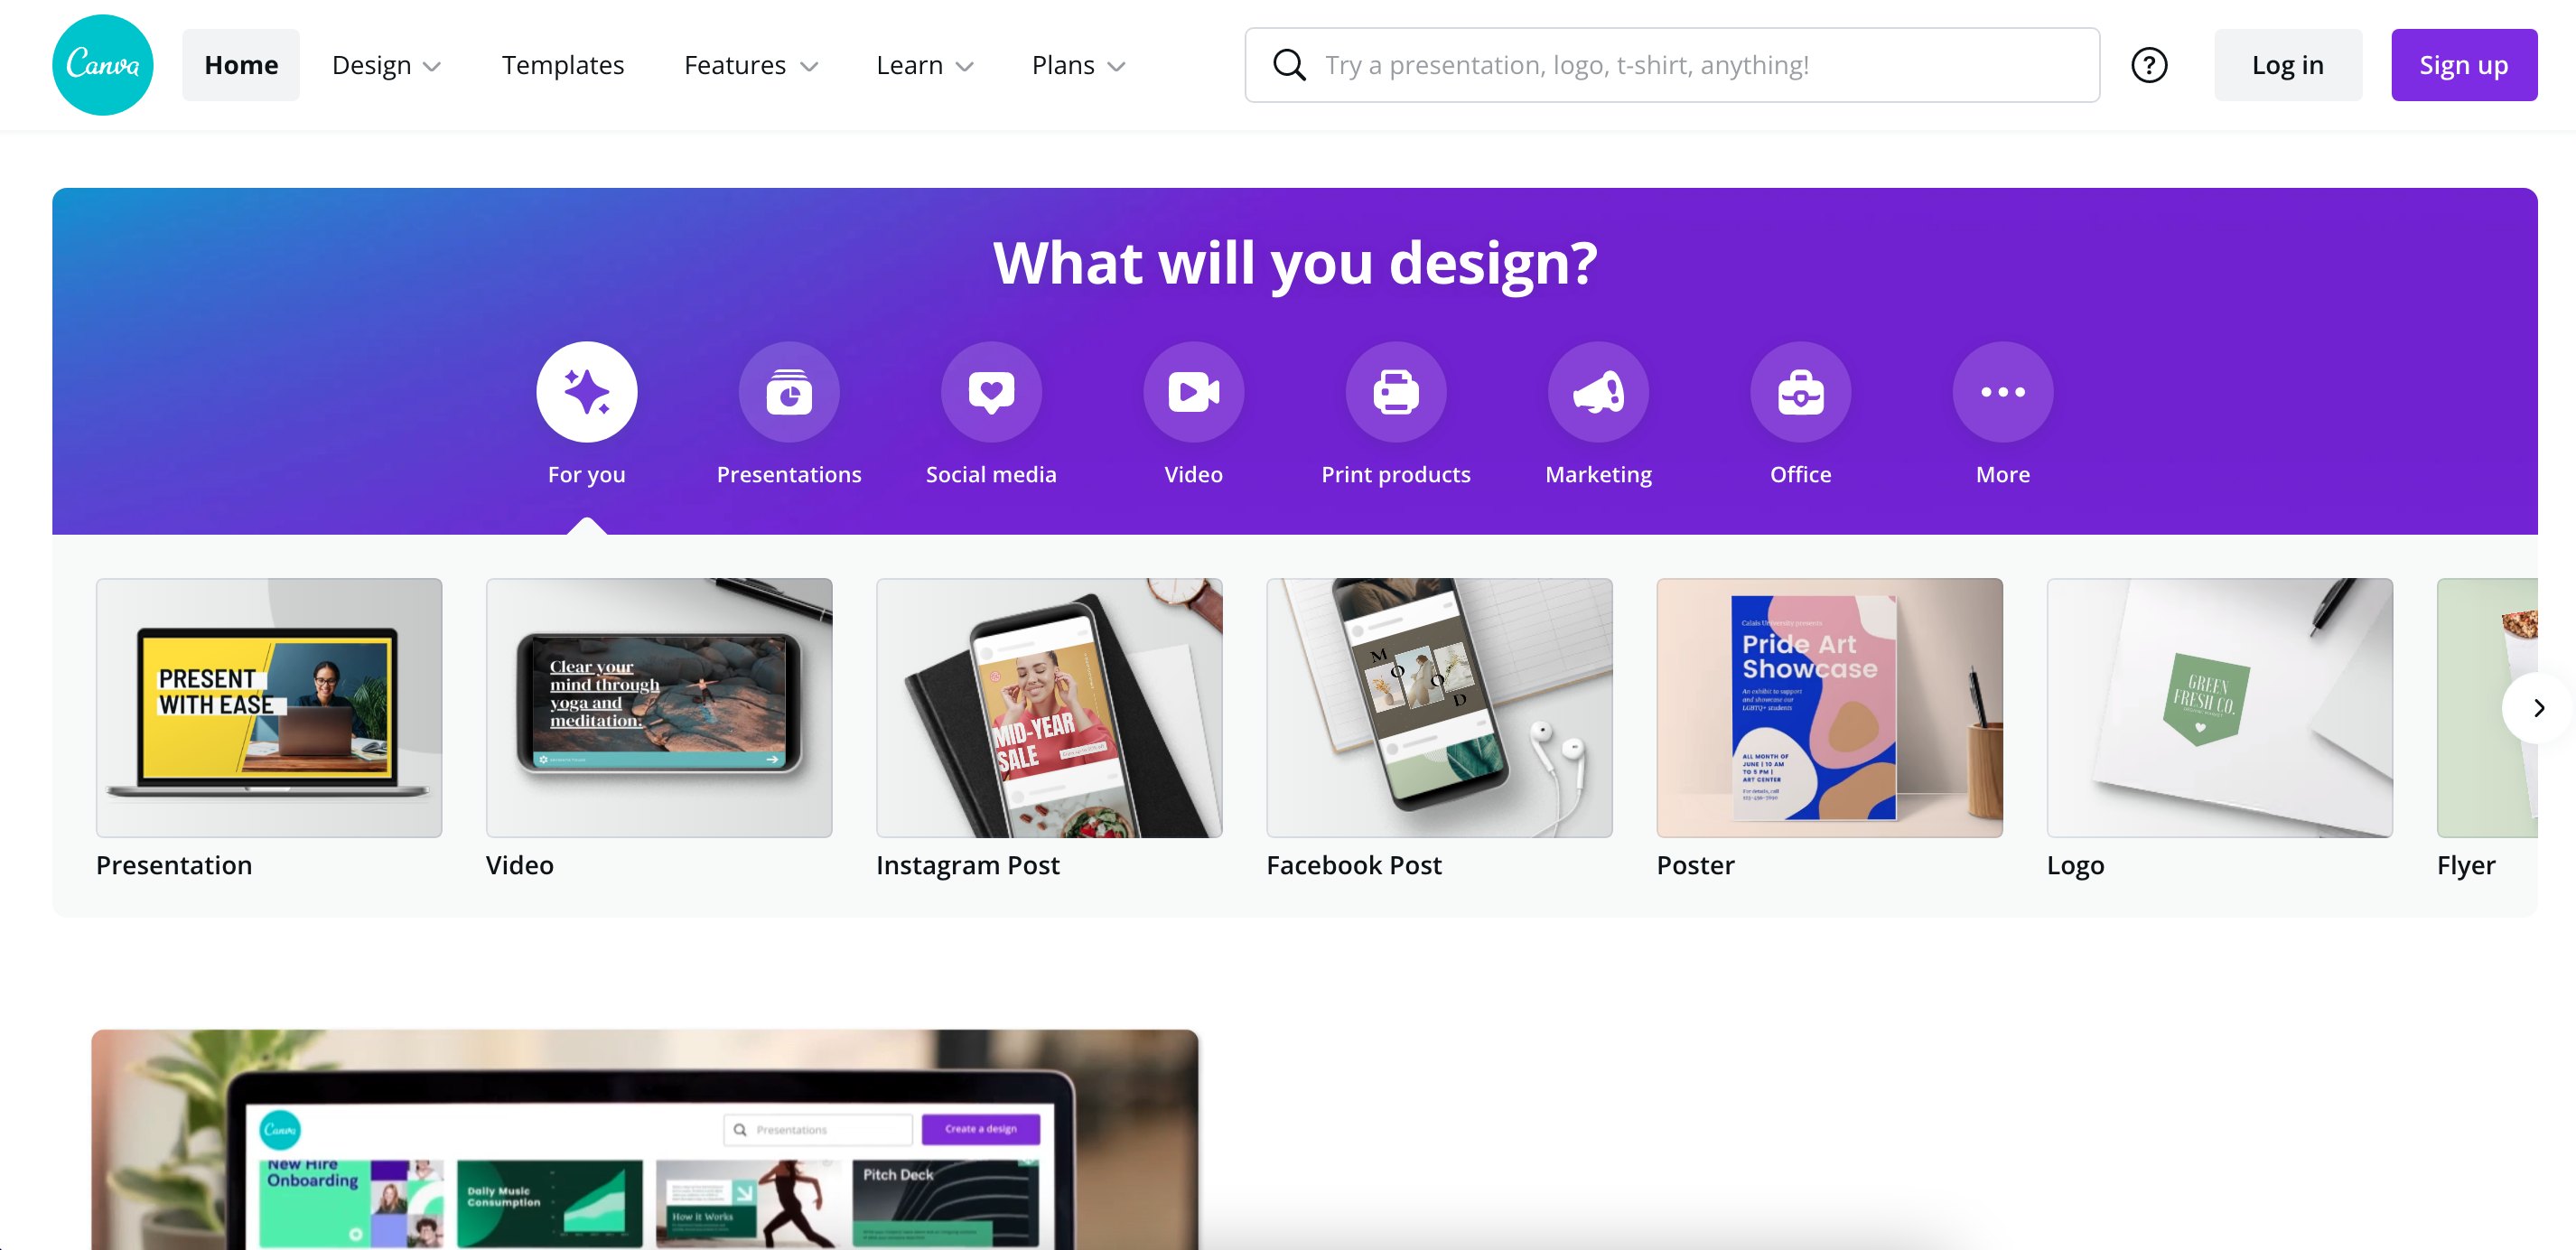
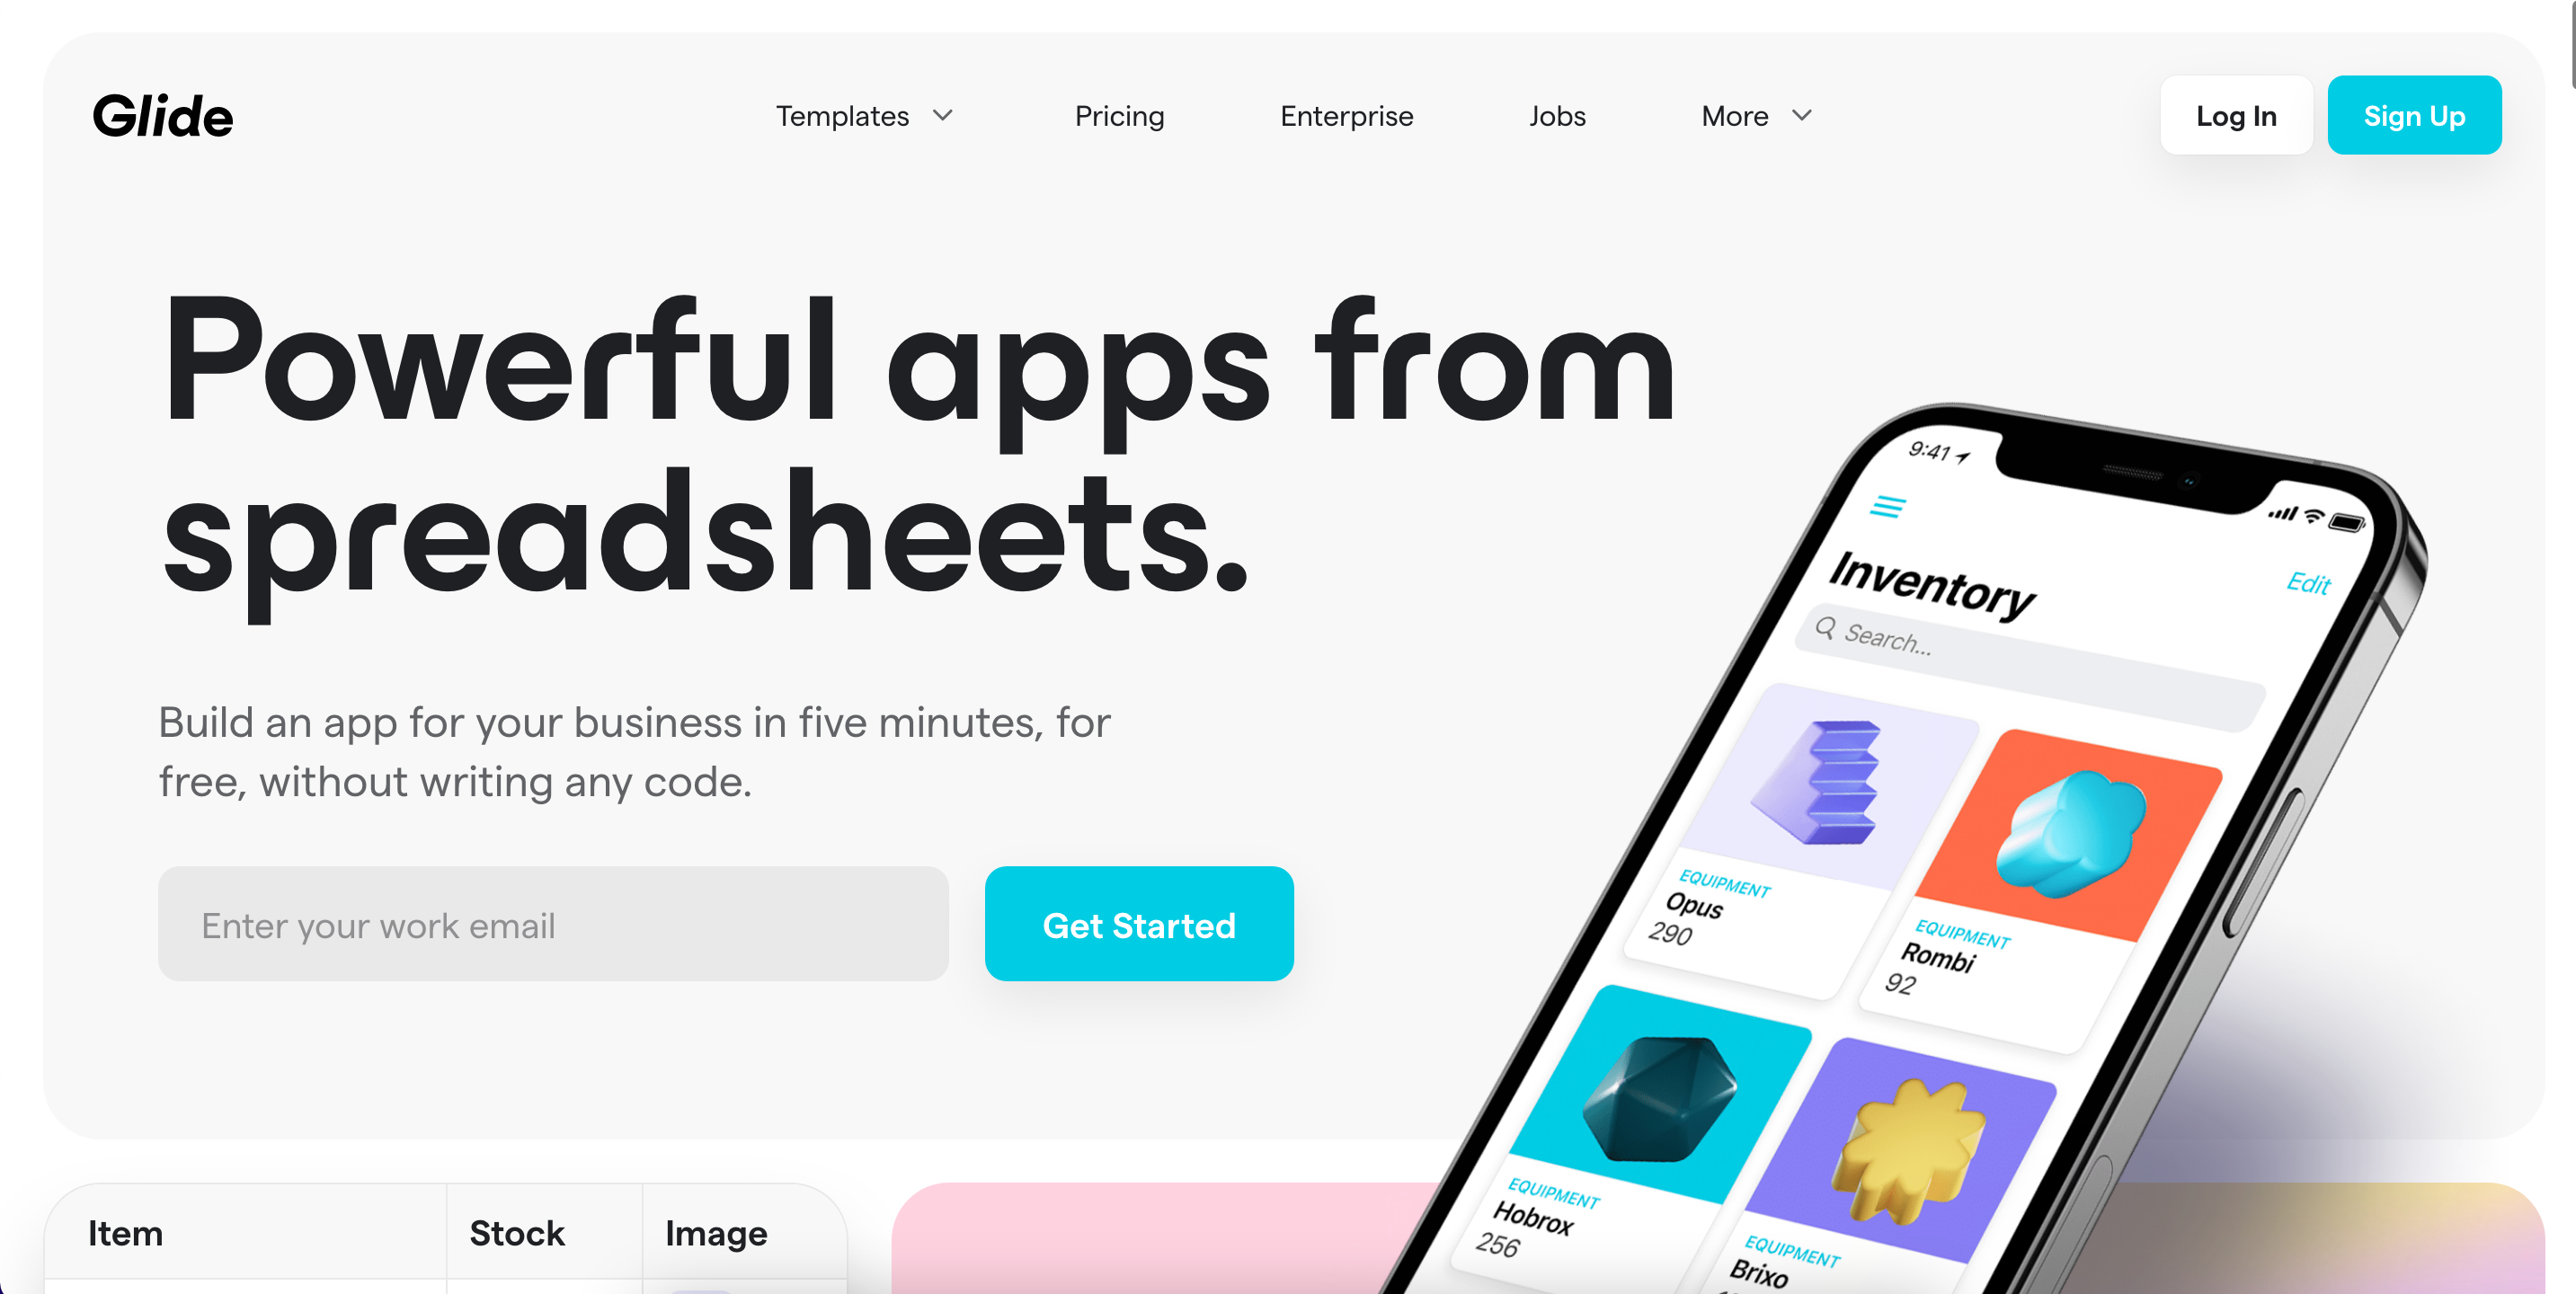
polishing features gallery section

diff --git a/views/HomePage/FeaturesGallery.tsx b/views/HomePage/FeaturesGallery.tsx
@@ -4,37 +4,32 @@ import NextImage from 'next/image';
 import { Container } from 'components/Container';
 import { media } from 'utils/media';
 import Collapse from 'components/Collapse';
+import ThreeLayersCircle from 'components/ThreeLayersCircle';
 
 const TABS = [
   {
-    title: 'Find relevant media contacts',
+    title: 'Find relevant media contacts - multiline title',
     description:
-      'Lorem ipsum dolor sit amet consectetur adipisicing elit. Quibusdam quidem ipsam ratione dicta quis cupiditate consequuntur laborum ducimus iusto velit.',
+      '<p>Lorem ipsum dolor sit amet consectetur adipisicing elit. Quibusdam quidem ipsam ratione dicta quis cupiditate consequuntur laborum ducimus iusto velit.</p>',
     imageUrl: '/demo-illustration-3.png',
+    baseColor: '249,82,120',
+    secondColor: '221,9,57',
   },
   {
     title: 'Find relevant media contacts2',
     description:
-      'Lorem ipsum dolor sit amet consectetur adipisicing elit. Quibusdam quidem ipsam ratione dicta quis cupiditate consequuntur laborum ducimus iusto velit.',
+      '<p>Lorem ipsum dolor sit amet consectetur adipisicing elit. Quibusdam quidem ipsam ratione dicta quis cupiditate consequuntur laborum ducimus iusto velit.</p>',
     imageUrl: '/demo-illustration-4.png',
+    baseColor: '57,148,224',
+    secondColor: '99,172,232',
   },
   {
     title: 'Find relevant media contacts3',
     description:
-      'Lorem ipsum dolor sit amet consectetur adipisicing elit. Quibusdam quidem ipsam ratione dicta quis cupiditate consequuntur laborum ducimus iusto velit.',
+      '<p>Lorem ipsum dolor sit amet consectetur adipisicing elit. Quibusdam quidem ipsam ratione dicta quis cupiditate consequuntur laborum ducimus iusto velit.</p>',
     imageUrl: '/demo-illustration-5.png',
-  },
-  {
-    title: 'Find relevant media contacts4',
-    description:
-      'Lorem ipsum dolor sit amet consectetur adipisicing elit. Quibusdam quidem ipsam ratione dicta quis cupiditate consequuntur laborum ducimus iusto velit.',
-    imageUrl: '/demo-illustration-6.png',
-  },
-  {
-    title: 'Find relevant media contacts5',
-    description:
-      'Lorem ipsum dolor sit amet consectetur adipisicing elit. Quibusdam quidem ipsam ratione dicta quis cupiditate consequuntur laborum ducimus iusto velit.',
-    imageUrl: '/demo-illustration-7.png',
+    baseColor: '88,193,132',
+    secondColor: '124,207,158',
   },
 ];
 
@@ -47,7 +42,7 @@ export default function FeaturesGallery() {
 
     return (
       <ImageContainer key={singleTab.title} isActive={isActive}>
-        <NextImage src={singleTab.imageUrl} layout="fill" objectFit="cover" priority={isFirst} />
+        <NextImage src={singleTab.imageUrl} layout="fill" objectFit="contain" priority={isFirst} />
       </ImageContainer>
     );
   });
@@ -56,11 +51,17 @@ export default function FeaturesGallery() {
     const isActive = singleTab.title === currentTab.title;
 
     return (
-      <Tab key={idx} onClick={() => handleTabClick(idx)}>
-        {singleTab.title}
+      <Tab isActive={isActive} key={idx} onClick={() => handleTabClick(idx)}>
+        <TabTitleContainer>
+          <CircleContainer>
+            <ThreeLayersCircle baseColor={isActive ? 'transparent' : singleTab.baseColor} secondColor={singleTab.secondColor} />
+          </CircleContainer>
+          <h3>{singleTab.title}</h3>
+        </TabTitleContainer>
         <Collapse isOpen={isActive} duration={300}>
-          <h1>Your content goes here</h1>
-          <p>Put as many React or HTML components here.</p>
+          <TabContent>
+            <div dangerouslySetInnerHTML={{ __html: singleTab.description }}></div>
+          </TabContent>
         </Collapse>
       </Tab>
     );
@@ -104,8 +105,8 @@ const TabsContainer = styled.div`
 
 const ImageContainer = styled.div<{ isActive: boolean }>`
   position: relative;
-  height: 50rem;
-  border-radius: 0.6rem;
+  overflow: hidden;
+  border-radius: 0.8rem;
   flex: ${(p) => (p.isActive ? '2' : '0')};
   box-shadow: var(--shadow-md);
 
@@ -129,19 +130,54 @@ const ImageContainer = styled.div<{ isActive: boolean }>`
   }
 `;
 
-const Tab = styled.div`
+const Tab = styled.div<{ isActive: boolean }>`
   display: flex;
   flex-direction: column;
-  padding: 2rem 1rem;
+  padding: 2rem 1.5rem;
   background: rgba(var(--secondary), 0.025);
-  opacity: 0.9;
+  opacity: ${(p) => (p.isActive ? 1 : 0.6)};
   cursor: pointer;
   border-radius: 0.6rem;
+  transition: opacity 0.2s;
 
   font-size: 1.6rem;
   font-weight: bold;
 
   ${media('<=desktop')} {
     width: 100%;
+  }
+`;
+
+const TabTitleContainer = styled.div`
+  display: flex;
+  align-items: center;
+
+  h3 {
+    flex: 1;
+  }
+`;
+
+const TabContent = styled.div`
+  display: flex;
+  flex-direction: column;
+  font-weight: normal;
+  margin-top: 0.5rem;
+  font-size: 1.5rem;
+  padding-left: calc(5rem + 1.5rem);
+
+  ${media('<=tablet')} {
+    padding-left: calc(4rem + 1.25rem);
+  }
+
+  p {
+    font-weight: normal;
+  }
+`;
+
+const CircleContainer = styled.div`
+  flex: 0 calc(5rem + 1.5rem);
+
+  ${media('<=tablet')} {
+    flex: 0 calc(4rem + 1.25rem);
   }
 `;

diff --git a/components/ThreeLayersCircle.tsx b/components/ThreeLayersCircle.tsx
@@ -1,0 +1,52 @@
+import styled from 'styled-components';
+import { media } from 'utils/media';
+
+export interface ThreeLayersCircleProps {
+  baseColor: string;
+  secondColor: string;
+}
+
+const ThreeLayersCircle = styled.div<ThreeLayersCircleProps>`
+  position: relative;
+  display: inline-block;
+  opacity: 0.8;
+  width: 5rem;
+  height: 5rem;
+  border-radius: 100rem;
+  background: rgb(${(p) => p.baseColor});
+  z-index: 0;
+  transition: background 0.2s;
+
+  ${media('<=tablet')} {
+    width: 4rem;
+    height: 4rem;
+  }
+
+  &:after,
+  &:before {
+    content: '';
+    position: absolute;
+    width: 3.5rem;
+    height: 3.5rem;
+    top: 50%;
+    left: 50%;
+    transform: translate(-50%, -50%);
+    border-radius: 100rem;
+    z-index: -1;
+  }
+
+  &:after {
+    width: 4rem;
+    height: 4rem;
+    background: rgb(${(p) => p.secondColor});
+    z-index: -2;
+  }
+
+  &:before {
+    width: 2rem;
+    height: 2rem;
+    background: rgb(${(p) => p.baseColor});
+  }
+`;
+
+export default ThreeLayersCircle;

diff --git a/pages/index.tsx b/pages/index.tsx
@@ -36,9 +36,9 @@ export default function Homepage() {
         </ul>
       </BasicSection>
       <Cta />
+      <FeaturesGallery />
       <Features />
       <Testimonials />
-      <FeaturesGallery />
     </HomepageWrapper>
   );
 }